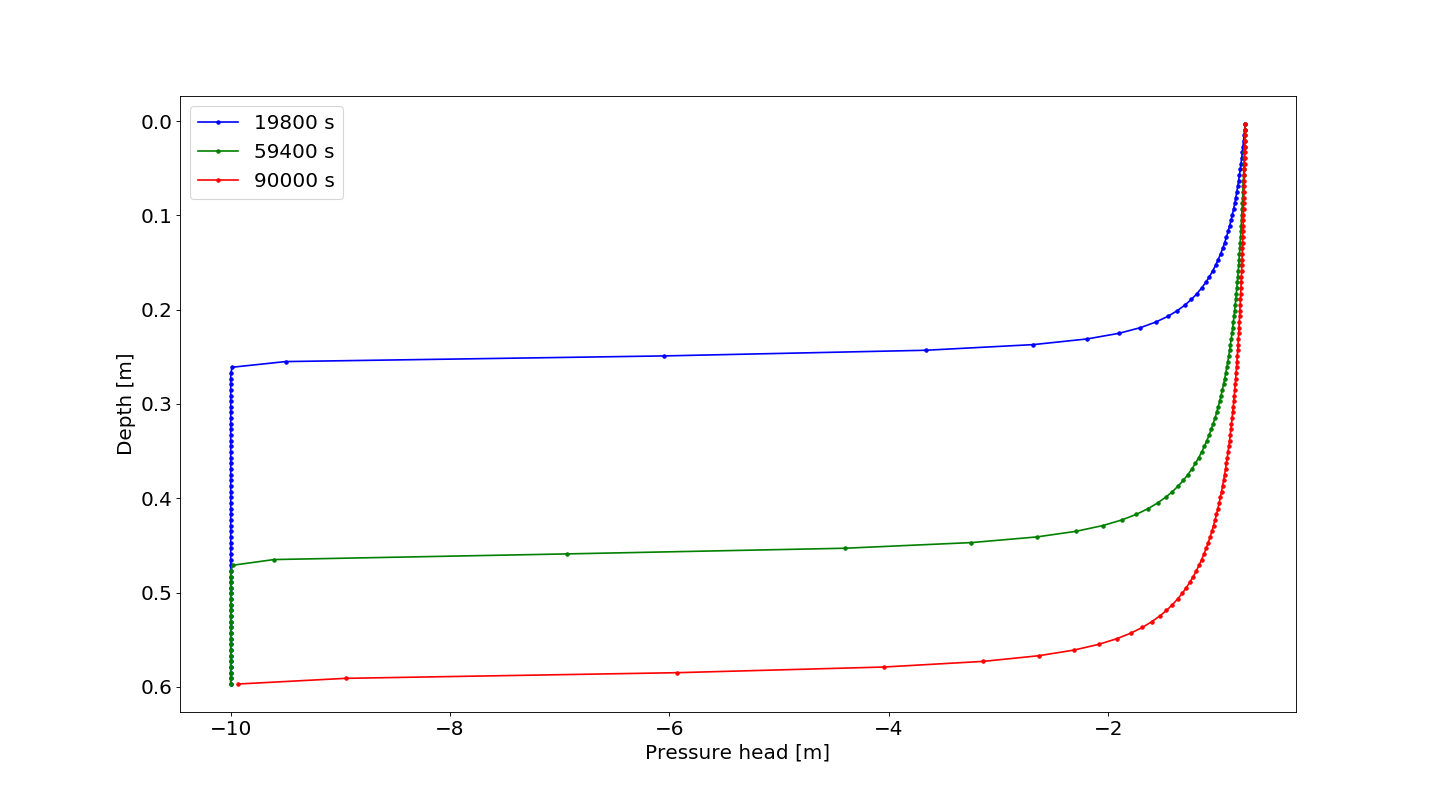
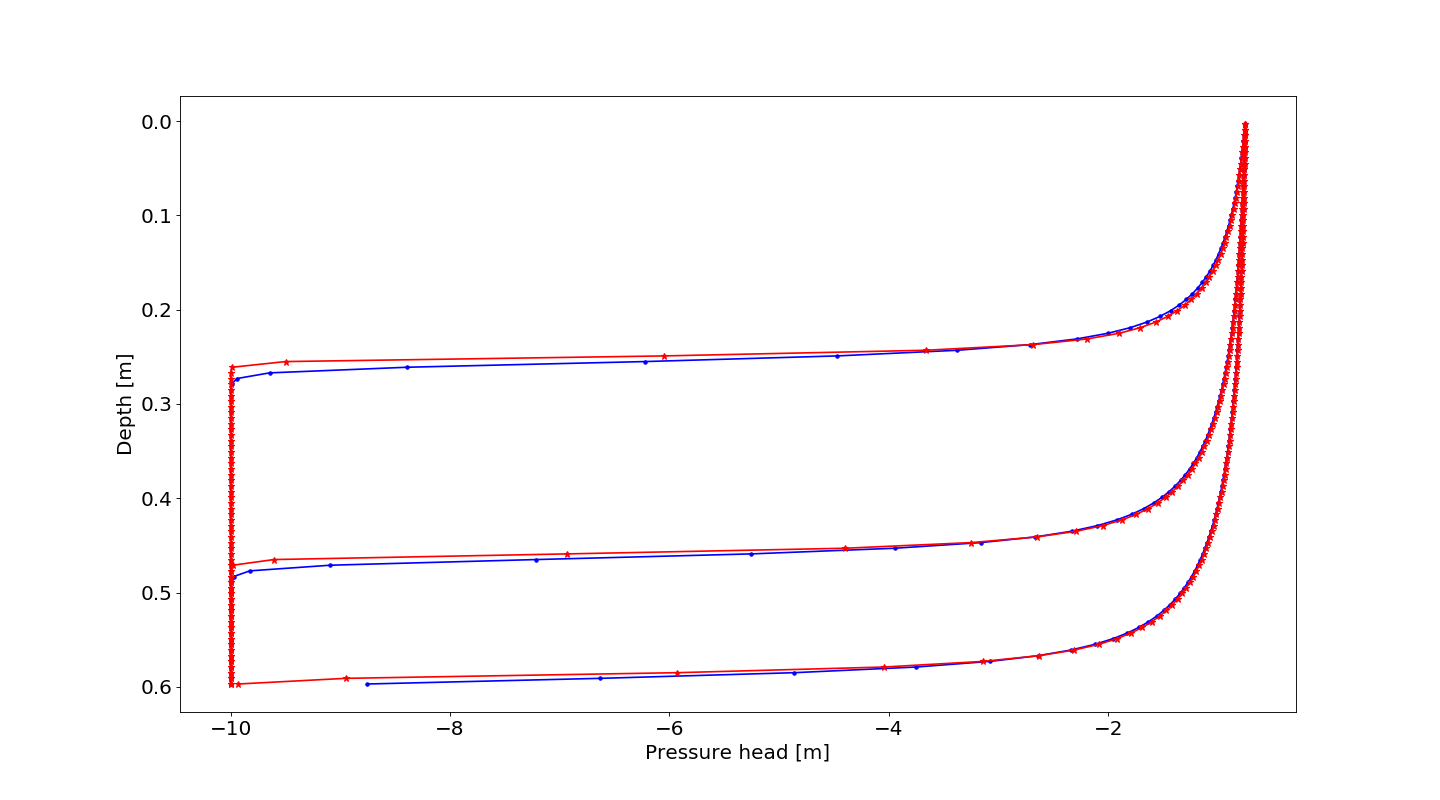
comparison for celia

diff --git a/lt1_celia1990/plot_lt_celia1990_fida.py b/lt1_celia1990/plot_lt_celia1990_fida.py
@@ -115,9 +115,13 @@ plt.rc('font', **font)
 fig = plt.figure(figsize=(18, 10), dpi= 80, facecolor='w', edgecolor='k');
 
 # Plot the data in a single figure
-plt.plot(matricHead_fida_t10[0:100], layerHeight_t10[0:100], marker='.', color='blue',  label='19800 s')
-plt.plot(matricHead_fida_t32[0:100], layerHeight_t32[0:100], marker='.', color='green', label='59400 s')
-plt.plot(matricHead_fida_t49[0:100], layerHeight_t39[0:100], marker='.', color='red',   label='90000 s')
+plt.plot(matricHead_t10[0:100], layerHeight_t10[0:100], marker='.', color='blue')
+plt.plot(matricHead_t32[0:100], layerHeight_t32[0:100], marker='.', color='blue')
+plt.plot(matricHead_t49[0:100], layerHeight_t39[0:100], marker='.', color='blue')
+
+plt.plot(matricHead_fida_t10[0:100], layerHeight_t10[0:100], marker='*', color='red')
+plt.plot(matricHead_fida_t32[0:100], layerHeight_t32[0:100], marker='*', color='red')
+plt.plot(matricHead_fida_t49[0:100], layerHeight_t39[0:100], marker='*', color='red')
 
 # Make sure that increasing depth points downward
 plt.gca().invert_yaxis()
@@ -125,7 +129,7 @@ plt.gca().invert_yaxis()
 # Labels
 plt.xlabel('Pressure head [m]'); # note, ';' supresses output from the Text object that is created for the labels
 plt.ylabel('Depth [m]');
-plt.legend();
+#plt.legend();
 
 # Save the figure
 plt.savefig('img/lt1_celia1990_fida.png');
